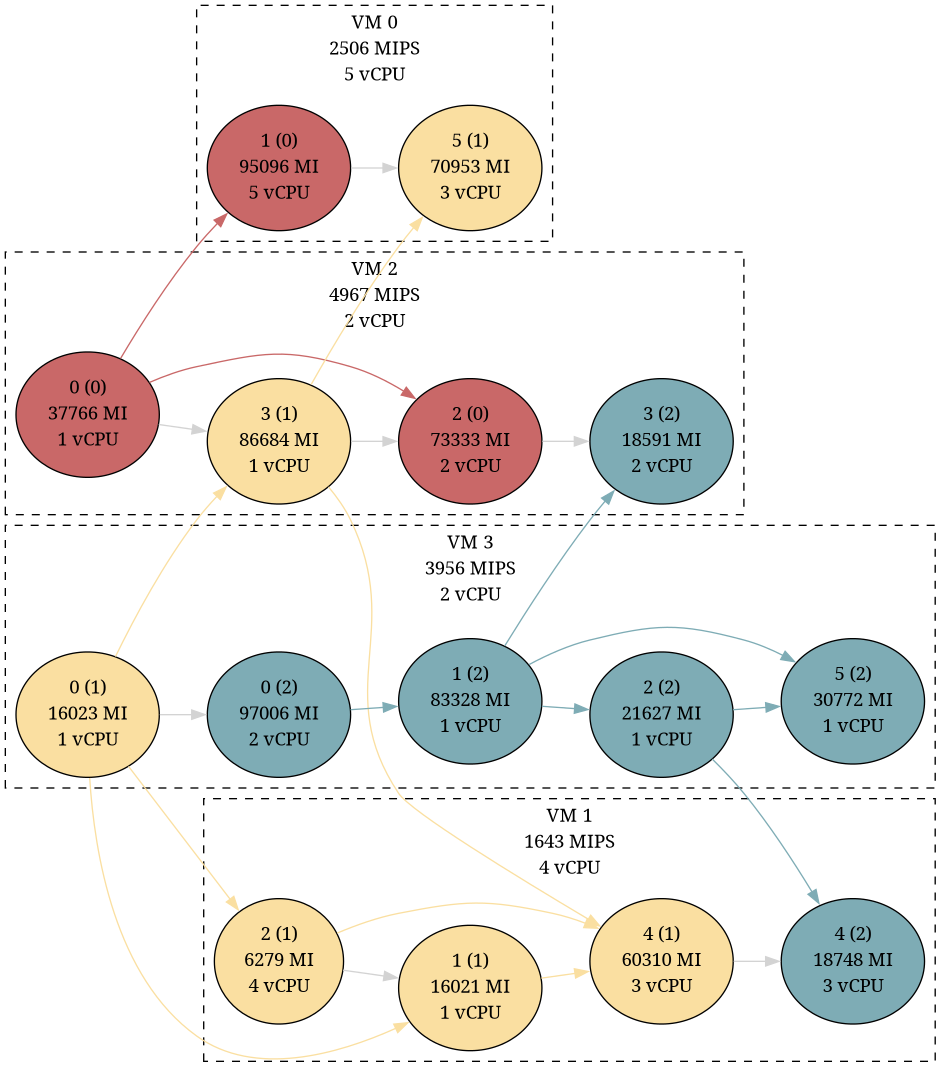
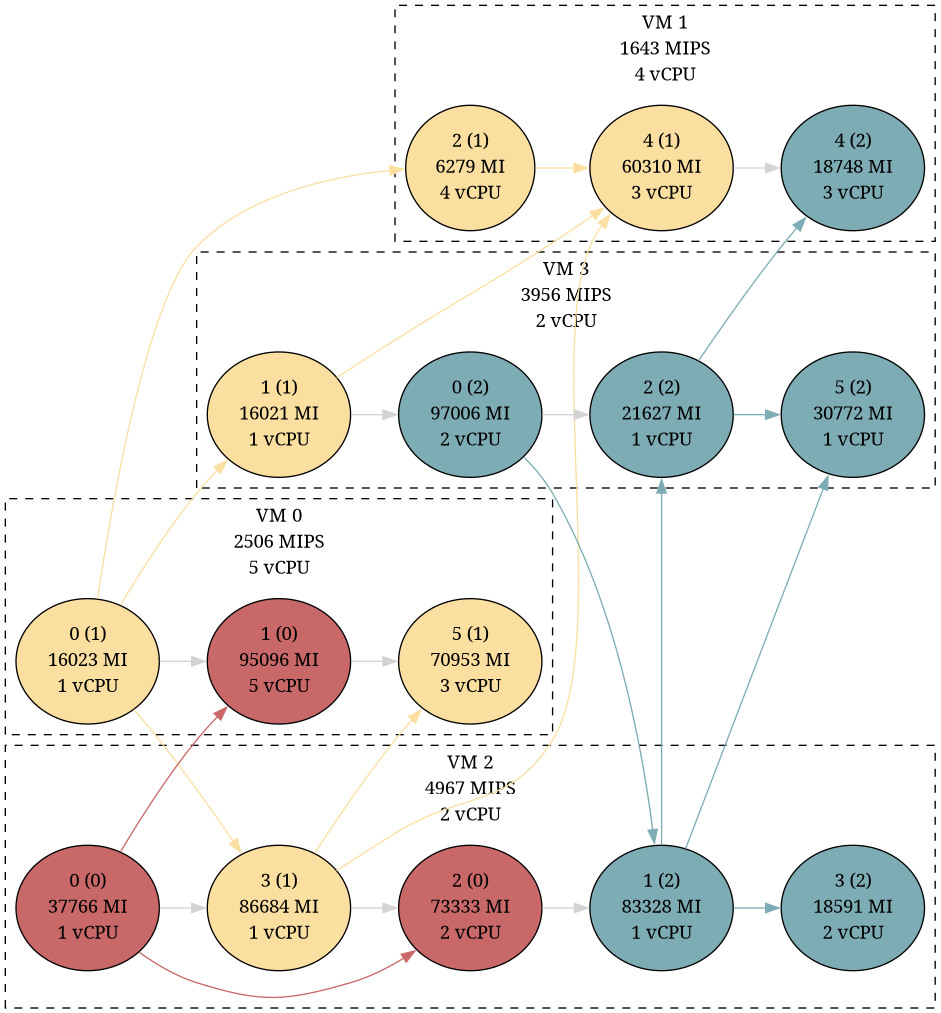
Refactor utils

diff --git a/dataset-generator/src/dataset_generator/visualizers/plotters.py b/dataset-generator/src/dataset_generator/visualizers/plotters.py
@@ -4,7 +4,11 @@ import matplotlib.pyplot as plt
 import networkx as nx
 import pygraphviz as pgv
 
-from dataset_generator.core.models import Workflow, Vm, VmAssignment
+from dataset_generator.core.models import Workflow, VmAssignment, Vm
+
+
+# -------------------------------------------------------------------------------------------------
+# Helper functions
 
 
 def color(id: int) -> str:
@@ -16,29 +20,11 @@ def get_node_id(workflow_id: int, task_id: int) -> str:
     return f"{workflow_id}-{task_id}"
 
 
-def draw_agraph(ax: plt.Axes, A: pgv.AGraph, prog_args: str = ""):
-    """
-    Draw the provided AGraph on the provided Axes.
-    """
-
-    A.layout(prog="dot", args=prog_args)
-    buffer = io.BytesIO()
-    buffer.write(A.draw(format="png"))
-    buffer.seek(0)
-    ax.imshow(plt.imread(buffer))
-    ax.axis("off")
+# -------------------------------------------------------------------------------------------------
+# Graphing functions for Workflow and Execution graphs
 
 
-def save_agraph(A: pgv.AGraph, path: str, prog_args: str = ""):
-    """
-    Save the provided AGraph to the provided path.
-    """
-
-    A.layout(prog="dot", args=prog_args)
-    A.draw(path)
-
-
-def plot_workflows(G: nx.DiGraph, workflows: list[Workflow]) -> pgv.AGraph:
+def plot_workflow_graphs(G: nx.DiGraph, workflows: list[Workflow]) -> pgv.AGraph:
     """
     Plot the workflows on the provided DiGraph.
     """
@@ -75,7 +61,7 @@ def plot_execution_graph(G: nx.DiGraph, workflows: list[Workflow], vms: list[Vm]
             G.add_edge(vm_nodes[vm_id][i - 1], vm_nodes[vm_id][i], color="lightgray")
 
     # Add nodes and edges for tasks
-    A = plot_workflows(G, workflows)
+    A = plot_workflow_graphs(G, workflows)
 
     # Add subgraphs for each VM
     for vm in vms:
@@ -84,3 +70,28 @@ def plot_execution_graph(G: nx.DiGraph, workflows: list[Workflow], vms: list[Vm]
             A.add_subgraph(vm_nodes[vm.id], name=f"cluster_{vm.id}", style="dashed", label=label)
 
     return A
+
+
+# -------------------------------------------------------------------------------------------------
+# Graphing functions for Gantt chart
+
+
+def plot_gantt_chart(ax: plt.Axes, workflows: list[Workflow], vms: list[Vm], result: list[VmAssignment]):
+    result_map: dict[tuple[int, int], VmAssignment] = {
+        (assignment.workflow_id, assignment.task_id): assignment for assignment in result
+    }
+
+    for workflow in workflows:
+        for task in workflow.tasks:
+            assigned_task = result_map[(workflow.id, task.id)]
+            ax.broken_barh(
+                [(assigned_task.start, assigned_task.end - assigned_task.start)],
+                (int(assigned_task.vm_id) - 0.3, 0.6),
+                color=color(workflow.id),
+                edgecolor="black",
+                linewidth=0.5,
+            )
+
+    ax.set_yticks(range(len(vms)))
+    ax.set_yticklabels([f"VM {vm.id}\n{int(vm.cpu_speed_mips)} MIPS\n{int(vm.cores)} vCPU" for vm in vms])
+    ax.set_xlabel("Time")

diff --git a/dataset-generator/src/dataset_generator/solve_dataset.py b/dataset-generator/src/dataset_generator/solve_dataset.py
@@ -1,15 +1,14 @@
 import click
 import json
-import random
-import numpy as np
 
 import networkx as nx
 import matplotlib.pyplot as plt
 
 from dataset_generator.core.models import Dataset, Workflow, Vm, Host, VmAllocation, Task
 from dataset_generator.solvers.solver import solve
-from dataset_generator.utils.plot_solutions import print_solution, plot_gantt_chart
-from dataset_generator.utils.plot_graphs import plot_workflows, plot_execution_graph, save_agraph
+from dataset_generator.visualizers.utils import save_agraph
+from dataset_generator.visualizers.plotters import plot_gantt_chart, plot_workflow_graphs, plot_execution_graph
+from dataset_generator.visualizers.printers import print_solution
 
 
 def workflow_from_json(data: dict) -> Workflow:
@@ -28,9 +27,6 @@ def dataset_from_json(data: dict) -> Dataset:
 @click.command()
 @click.option("--method", default="sat", help="Method to solve the dataset", type=click.Choice(["sat", "round_robin"]))
 def main(method: str):
-    random.seed(0)
-    np.random.seed(0)
-
     dataset_str = input()
     dataset_dict = json.loads(dataset_str)
     dataset = dataset_from_json(dataset_dict)
@@ -38,7 +34,7 @@ def main(method: str):
     # Workflow graph
     _, ax = plt.subplots()
     G_w: nx.DiGraph = nx.DiGraph()
-    A_w = plot_workflows(G_w, dataset.workflows)
+    A_w = plot_workflow_graphs(G_w, dataset.workflows)
     save_agraph(A_w, f"tmp/solve_datasets_{method}_workflows.png")
 
     # Solution
@@ -49,7 +45,7 @@ def main(method: str):
     _, ax = plt.subplots()
     G_e: nx.DiGraph = nx.DiGraph()
     A_e = plot_execution_graph(G_e, dataset.workflows, dataset.vms, result)
-    save_agraph(A_e, f"tmp/solve_datasets_{method}_execution.png", prog_args="-Grankdir=LR")
+    save_agraph(A_e, f"tmp/solve_datasets_{method}_execution.png", dir_lr=True)
 
     # Gantt chart
     _, ax = plt.subplots()

diff --git a/dataset-generator/src/dataset_generator/visualizers/printers.py b/dataset-generator/src/dataset_generator/visualizers/printers.py
@@ -1,0 +1,16 @@
+from dataset_generator.core.models import Workflow, VmAssignment
+
+
+def print_solution(workflows: list[Workflow], result: list[VmAssignment]):
+    makespan_start = {workflow.id: float("inf") for workflow in workflows}
+    makespan_end = {workflow.id: float("-inf") for workflow in workflows}
+
+    for assignment in result:
+        workflow_id = assignment.workflow_id
+        makespan_start[workflow_id] = min(makespan_start[workflow_id], assignment.start)
+        makespan_end[workflow_id] = max(makespan_end[workflow_id], assignment.end)
+        print(assignment)
+    total_makespan = sum(makespan_end[workflow_id] - makespan_start[workflow_id] for workflow_id in makespan_start)
+
+    print()
+    print(f"Total makespan: {total_makespan}")

diff --git a/dataset-generator/src/dataset_generator/visualizers/utils.py b/dataset-generator/src/dataset_generator/visualizers/utils.py
@@ -1,0 +1,26 @@
+import io
+
+import matplotlib.pyplot as plt
+import pygraphviz as pgv
+
+
+def draw_agraph(ax: plt.Axes, A: pgv.AGraph):
+    """
+    Draw the provided AGraph on the provided Axes.
+    """
+
+    A.layout(prog="dot")
+    buffer = io.BytesIO()
+    buffer.write(A.draw(format="png"))
+    buffer.seek(0)
+    ax.imshow(plt.imread(buffer))
+    ax.axis("off")
+
+
+def save_agraph(A: pgv.AGraph, path: str, dir_lr: bool = False):
+    """
+    Save the provided AGraph to the provided path.
+    """
+
+    A.layout(prog="dot", args="-Grankdir=LR" if dir_lr else "")
+    A.draw(path)
